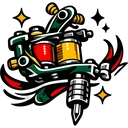
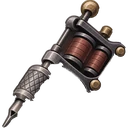
Новая иконка наколок (тату-машинка) везде, где показано, что падают наколки; во «Взломе» и наградах за урон вместо картинки куска сета
Claude-Session: https://claude.ai/code/session_01XtpZhZabEYUcJEQKQgYpHe

diff --git a/src/client/screens/boss-box.tsx b/src/client/screens/boss-box.tsx
@@ -10,7 +10,6 @@ import { useEffect, useState } from "react";
 import { bossBonus } from "../../content/boss-bonus.ts";
 import { BAR_INSIDE, BOX_LAYERS, BOX_WINDOW, PIN_X } from "../art/boss-box-layout.ts";
 import { GainLine } from "../ui.tsx";
-import { ItemArt } from "../art/items.tsx";
 import { full, short } from "../format.ts";
 import { haptic } from "../telegram.ts";
 import { bboxSfx } from "../sound.ts";
@@ -93,7 +92,7 @@ export function BossBoxWindow({ bossId, fightId, damage, hpMax, mode, owned, onC
             {/* the stage open: its reward on the plank, where the plate hung */}
             {open && (
               <span className="bbox-plank-gain" style={{ left: `${BOX_LAYERS.plank[0]}%`, top: `${BOX_LAYERS.plate[1] - 1}%`, width: `${BOX_LAYERS.plank[2]}%`, height: `${BOX_LAYERS.plate[3] + 2}%` }}>
-                {st.set ? <span className="bbox-tat"><ItemArt id={st.reward.items![0].id} size={16} /> Наколка</span> : <GainLine r={st.reward} size={16} />}
+                {st.set ? <span className="bbox-tat"><img src="/assets/ui/drop-tattoo.webp?v=2" width={16} height={16} alt="" draggable={false} /> Наколка</span> : <GainLine r={st.reward} size={16} />}
               </span>
             )}
             <span className="bbox-plate-n num plate" style={{ left: `${BOX_LAYERS.plate[0]}%`, top: `${BOX_LAYERS.plate[1]}%`, width: `${BOX_LAYERS.plate[2]}%`, height: `${BOX_LAYERS.plate[3]}%` }}>{short(st.damage)}</span>

diff --git a/src/client/screens/stylist.tsx b/src/client/screens/stylist.tsx
@@ -338,7 +338,7 @@ export function Stylist({ draft, setDraft, onClose, focus, setFocus, onRoom }: {
       )}
       <div className="sty-side-tabs" role="tablist">
         <button type="button" className={mode === "body" && !inkTab ? "on" : ""} onClick={() => setMode("body")} aria-label="Изменить внешность" title="Изменить внешность"><img src="/assets/ui/tab-look.webp" alt="" draggable={false} /></button>
-        <button type="button" className={inkTab ? "on" : ""} onClick={openInk} aria-label="Набить наколки" title="Набить наколки"><img src="/assets/ui/drop-tattoo.webp" alt="" draggable={false} /></button>
+        <button type="button" className={inkTab ? "on" : ""} onClick={openInk} aria-label="Набить наколки" title="Набить наколки"><img src="/assets/ui/drop-tattoo.webp?v=2" alt="" draggable={false} /></button>
         <button type="button" className={mode === "items" && !inkTab ? "on" : ""} onClick={() => setMode("items")} aria-label="Сменить одежду" title="Сменить одежду"><img src="/assets/ui/slot-shirt.webp" alt="" draggable={false} /></button>
         {/* «Побриться»: the beard (a level a day unshaven) goes; greyed while there is nothing to shave */}
         <button type="button" className={`sty-shave ${(state?.look.body.beard ?? 0) > 0 ? "" : "idle"}`} disabled={!!busy || (state?.look.body.beard ?? 0) < 1}

diff --git a/src/client/screens/fortune.tsx b/src/client/screens/fortune.tsx
@@ -112,7 +112,7 @@ const SPARK_PAD = 1.5;
 function SectorIcon({ s, size }: { s: Sector; size: number }) {
   if (s.icon === "RUB" || s.icon === "PAP" || s.icon === "TOKEN") return <Icon name={s.icon} size={size} />;
   // eslint-disable-next-line @next/next/no-img-element
-  if (s.icon === "tattoo") return <img src={`${A}/tattoo-icon.webp`} alt="" width={size} height={size} draggable={false} />;
+  if (s.icon === "tattoo") return <img src={`${A}/tattoo-icon.webp?v=2`} alt="" width={size} height={size} draggable={false} />;
   // eslint-disable-next-line @next/next/no-img-element
   if (s.icon === "fortune-xp") return <img src={`${A}/xp.webp`} alt="" width={size} height={size} draggable={false} />;
   return <ItemArt id={s.icon} size={size} />;
@@ -404,7 +404,7 @@ function Bags({ keycaps, onClose }: { keycaps: number; onClose: () => void }) {
               {set && (
                 <span className="tat" title={`Наколка сета «${set.name}» — ${Math.round(BAG_TATTOO_CHANCE * 100)}%`}>
                   {/* eslint-disable-next-line @next/next/no-img-element */}
-                  <img src={`${A}/tattoo-icon.webp`} alt="" />
+                  <img src={`${A}/tattoo-icon.webp?v=2`} alt="" />
                   {/* how many of its set are mine already */}
                   <b className="tat-of num">{ownOf(set)}/{set.pieces.length}</b>
                 </span>

diff --git a/src/client/screens/heist.tsx b/src/client/screens/heist.tsx
@@ -74,9 +74,10 @@ function Possible({ kind, owned }: { kind: HeistKind; owned: Set<string> }) {
         <b className="hs-panel-t">Возможная награда</b>
         <div className={`hs-panel-grid ${ids.length > 7 ? "many" : ""}`}>
           {ids.map((id) => <span key={id}>{id === HEIST_CASE ? <Icon name="case" size={26} /> : <ItemArt id={id} size={28} />}</span>)}
-          {SET_PIECES[0] && <span title="Наколки сетов ивента"><ItemArt id={SET_PIECES[0]} size={28} /></span>}
+          {/* eslint-disable-next-line @next/next/no-img-element */}
+          {SET_PIECES[0] && <span title="Наколки сетов ивента"><img src="/assets/ui/drop-tattoo.webp?v=2" width={28} height={28} alt="наколка" draggable={false} /></span>}
         </div>
-        <span className="hs-panel-note">Наколка {Math.round(T.tattoo * 100)}% · за <Icon name="GOLD" size={11} /> {Math.round(B.tattoo * 100)}%<br />{got}/{SET_PIECES.length}</span>
+        <span className="hs-panel-note">Наколка {Math.round(T.tattoo * 100)}%<br /><span style={{ whiteSpace: "nowrap" }}>за <Icon name="GOLD" size={11} /> {Math.round(B.tattoo * 100)}% · {got}/{SET_PIECES.length}</span></span>
       </div>
     </div>
   );

diff --git a/src/client/screens/monthly.tsx b/src/client/screens/monthly.tsx
@@ -44,7 +44,7 @@ function ChestInfo({ onClose }: { onClose: () => void }) {
         <div className="mt-chest-row"><Icon name="RUB" size={32} /><b>Рубли</b><span className="num">{c.RUB[0]}–{c.RUB[1]}</span></div>
         <div className="mt-chest-row"><Icon name="case" size={32} /><b>Кейсы</b><span className="num">{c.cases[0]}–{c.cases[1]}</span></div>
         {/* eslint-disable-next-line @next/next/no-img-element */}
-        <div className="mt-chest-row"><img src="/assets/ui/drop-tattoo.webp" width={32} height={32} alt="" /><b>Наколка или вещь</b><span className="num">1</span></div>
+        <div className="mt-chest-row"><img src="/assets/ui/drop-tattoo.webp?v=2" width={32} height={32} alt="" /><b>Наколка или вещь</b><span className="num">1</span></div>
       </div>
     </Modal>
   );

diff --git a/src/client/ui.tsx b/src/client/ui.tsx
@@ -179,7 +179,7 @@ export function DropKind({ kind, size = 18, count }: { kind: "tattoo" | "wear" |
   return (
     <span className={`gain drop-kind ${kind === "room" ? "hata" : kind}`} title={`${what} с этого босса${count ? `: ${count}` : ""}`}>
       {/* eslint-disable-next-line @next/next/no-img-element */}
-      <img src={`/assets/ui/drop-${kind}.webp`} alt={what.toLowerCase()} width={size * 1.25} height={size * 1.25} draggable={false} />
+      <img src={`/assets/ui/drop-${kind}.webp${kind === "tattoo" ? "?v=2" : ""}`} alt={what.toLowerCase()} width={size * 1.25} height={size * 1.25} draggable={false} />
       {count && <span className="mystery-count">{count}</span>}
     </span>
   );

diff --git a/src/client/asset-manifest.ts b/src/client/asset-manifest.ts
@@ -253,7 +253,7 @@ export const ASSET_FILES: string[] = [
  "/assets/fortune/lid-v2.webp",
  "/assets/fortune/prize.webp",
  "/assets/fortune/rim.webp",
- "/assets/fortune/tattoo-icon.webp",
+ "/assets/fortune/tattoo-icon.webp?v=2",
  "/assets/fortune/xp.webp",
  "/assets/fortune/yard-lid.webp",
  "/assets/fx/rugpull-arm.webp",
@@ -9188,7 +9188,7 @@ export const ASSET_FILES: string[] = [
  "/assets/ui/dossier-ptab.webp",
  "/assets/ui/dossier-tab.webp",
  "/assets/ui/drop-room.webp",
- "/assets/ui/drop-tattoo.webp",
+ "/assets/ui/drop-tattoo.webp?v=2",
  "/assets/ui/drop-wear.webp",
  "/assets/ui/emblem-bear.webp",
  "/assets/ui/emblem-bull.webp",

diff --git a/src/client/screens/raids.tsx b/src/client/screens/raids.tsx
@@ -309,7 +309,7 @@ export function TatCount({ set }: { set: string }) {
   return (
     <span className={`tat-count ${have >= s.pieces.length ? "full" : ""}`} title={`Наколок сета «${s.name}»: ${have} из ${s.pieces.length}`}>
       {/* eslint-disable-next-line @next/next/no-img-element */}
-      <img src="/assets/fortune/tattoo-icon.webp" alt="" />
+      <img src="/assets/fortune/tattoo-icon.webp?v=2" alt="" />
       <b className="num">{have}/{s.pieces.length}</b>
     </span>
   );
